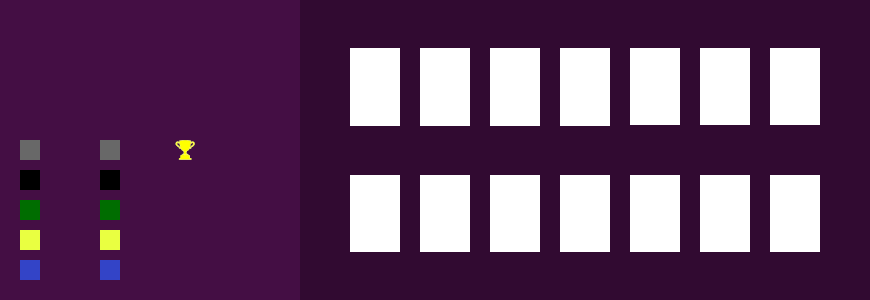
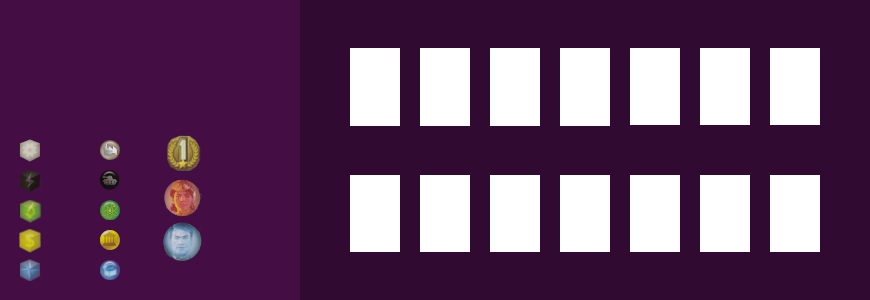
**feature : Graphics changes**
_Commit Description:_

Graphics changes

[CR #054]

diff --git a/src/client/main.cpp b/src/client/main.cpp
@@ -13,6 +13,7 @@ void testSFML() {
 #include <state.h>
 #include <render.h>
 #include "../shared/state.h"
+#include "render.h"
 
 using namespace std;
 using namespace state;
@@ -22,35 +23,12 @@ int main(int argc,char* argv[])
 {
 
 	//Print Temporary Manual Commands
-
 	cout<<"**Temporary Manual Commands**"<<endl;
 	cout<<"*Change Window Commands*"<<endl;
 	cout<<"A - Main Window"<<endl;
 	cout<<"Z - Drafting Window"<<endl;
 	cout<<"E - Player Full Window"<<endl;
-	cout<<"*Main Window Commands*"<<endl;
-	cout<<"K/M - Change position of Token"<<endl;
-	cout<<"O/L - Change Turn"<<endl;
-	cout<<"*Player Info Commands*"<<endl;
-	cout<<"Q - Display Player 1"<<endl;
-	cout<<"S - Display Player 2"<<endl;
 
-	//Creation of testing instances of Player class
-	state::Player* player1 = new state::Player();
-	state::Player* player2 = new state::Player();
-
-	//Creation of the vector players
-	vector<state::Player*> players;
-	players.push_back(player1);
-	players.push_back(player2);
-
-	//Creation of the instance of the Game class
-	state::Game* game = new state::Game(players);
-
-	int i,j,k;
-
-	//Creation of the instance of the Scene class
-	Scene scene = Scene(game);
 
 	//Creation of the window
 	int win_length = 1820;
@@ -61,6 +39,30 @@ int main(int argc,char* argv[])
 	float win_length_scale = (win_length*1.0f)/(1920.0f);
 	float win_heigth_scale = (win_heigth*1.0f)/(1080.0f);
 	sf::Transform tr_scale = sf::Transform().scale(win_length_scale, win_heigth_scale);
+
+
+	sf::Texture* t = new sf::Texture();
+	sf::Texture* t2 = new sf::Texture();
+	//Creation of testing instances of Player class
+	t->loadFromFile("./resources/img/pfp_1.png");
+	state::Player* player1 = new state::Player("MOI",0,t);
+	t2->loadFromFile("./resources/img/pfp_2.png");
+	state::Player* player2 = new state::Player("TOI",1,t2);
+
+	//Creation of the vector players
+	vector<state::Player*> players;
+	players.push_back(player1);
+	players.push_back(player2);
+
+	//Creation of the instance of the Game class
+	state::Game game = state::Game(players);
+
+	game.initGame();
+	//endDraft - endPlanification - 
+	int i,j,k;
+
+	//Creation of the instance of the Scene class
+	Scene scene = Scene(&game,tr_scale);
 
 	//Creation of the Font for the Texts
 	sf::Font font;
@@ -96,7 +98,8 @@ int main(int argc,char* argv[])
 					}
 					if (event.key.code == 4){		//Key E
 						scene.changeWindow(PLAYER_INFO); //Change the window to PLAYER_INFO
-					}					
+					}
+						
 				}
 			}
 
@@ -115,13 +118,13 @@ int main(int argc,char* argv[])
 				window.draw(*(gRenderer->getPhaseIndicator()),gRenderer->getPhaseIndicatorTransform());
 
 				
-				for (i=0; i < (scene.getPlayerRenderer().size()-1)/2; i++){
-					pRenderer =	scene.getPlayerRenderer()[i];
+				for (i=0; i < 2; i++){
+					pRenderer =	scene.getPlayerRenderer(i);
 					for (j = 0; j < pRenderer->getNumberSprite() ;j++){
-						window.draw(*(pRenderer->getSprite(i)),pRenderer->getSpriteTransform(i));
+						window.draw(*(pRenderer->getSprite(j)),pRenderer->getSpriteTransform(j));
 					}
 					for (j = 0; j < pRenderer->getNumberText() ;j++){
-						window.draw(*(pRenderer->getText(i)),pRenderer->getTextTransform(i));
+						window.draw(*(pRenderer->getText(j)),pRenderer->getTextTransform(j));
 					}
 					for (j = 0; j < pRenderer->getNumberCardRenderer() ;j++){
 						cRenderer = pRenderer->getCardRenderer(j);
@@ -133,8 +136,8 @@ int main(int argc,char* argv[])
 				}
 				break;
 			case DRAFTING_WINDOW:
-				for (i=(scene.getPlayerRenderer().size()+1)/2; i < scene.getPlayerRenderer().size()-1; i++){
-					pRenderer =	scene.getPlayerRenderer()[i];
+				for (i=2; i < 4; i++){
+					pRenderer =	scene.getPlayerRenderer(i);
 					for (j = 0; j < pRenderer->getNumberSprite() ;j++){
 						window.draw(*(pRenderer->getSprite(j)),pRenderer->getSpriteTransform(j));
 					}
@@ -152,7 +155,7 @@ int main(int argc,char* argv[])
 				//TODO Drafting HAND
 				break;
 			case PLAYER_INFO:
-				pRenderer =	scene.getPlayerRenderer()[scene.getPlayerRenderer().size()-1];
+				pRenderer =	scene.getPlayerRenderer(4);
 				for (j = 0; j < pRenderer->getNumberSprite() ;j++){
 					window.draw(*(pRenderer->getSprite(j)),pRenderer->getSpriteTransform(j));
 				}

diff --git a/src/client/render/Scene.cpp b/src/client/render/Scene.cpp
@@ -7,6 +7,8 @@ namespace render {
 
 	/// @brief Full constructor of the Scene class.
     Scene::Scene(state::Game* game,sf::Transform transform){
+		this->game = game;
+
        	//Creation and initialisation of the background texture
     	this->background_texture =sf::Texture();
     	(this->background_texture).loadFromFile("./resources/img/background.png");
@@ -18,13 +20,22 @@ namespace render {
     	//Set Starting Window
     	this->current_window = MAIN_WINDOW;
 
-		for (state::Player* player: game->getPlayers()){
-    		this->player_renderer.push_back(new PlayerRenderer(player,transform,MAIN_WINDOW));
+		PlayerRenderer* pRenderer;
+		int i;
+
+		std::vector<state::Player*> players = game->getPlayers();
+		//for (int i = 0; i<players.size();i++){
+			pRenderer = new PlayerRenderer(players[0],generatePlayerTransform(transform,MAIN_WINDOW,0),MAIN_WINDOW);
+    		this->player_renderer.push_back(pRenderer);
+			pRenderer = new PlayerRenderer(players[1],generatePlayerTransform(transform,MAIN_WINDOW,1),MAIN_WINDOW);
+    		this->player_renderer.push_back(pRenderer);
+		//}
+		for (int i = 0; i<players.size();i++){
+    		pRenderer = new PlayerRenderer(players[i],generatePlayerTransform(transform,DRAFTING_WINDOW,i),DRAFTING_WINDOW);
+			this->player_renderer.push_back(pRenderer);
 		}
-		for (state::Player* player: game->getPlayers()){
-    		this->player_renderer.push_back(new PlayerRenderer(player,transform,DRAFTING_WINDOW));
-		}
-		this->player_renderer.push_back(new PlayerRenderer(game->getPlayers()[0],transform,PLAYER_INFO));
+		pRenderer = new PlayerRenderer(game->getPlayers()[0],transform,PLAYER_INFO);
+		this->player_renderer.push_back(pRenderer);
 
 		this->game_renderer = new GameRenderer(game,transform);
 	}
@@ -43,8 +54,12 @@ namespace render {
     /// @brief Getter of the player renderer.
     /// @param index corresponding of the wanted player renderer in the vector player_renderer
 	/// @return The player renderer corresponding of the index.
-	std::vector<PlayerRenderer*> Scene::getPlayerRenderer (){
-		return (this->player_renderer);
+	PlayerRenderer* Scene::getPlayerRenderer (int i){
+		return (this->player_renderer)[i];
+	}
+
+	GameRenderer* Scene::getGameRenderer(){
+		return this->game_renderer;
 	}
 
 	/// @brief Setter for current_window
@@ -57,5 +72,26 @@ namespace render {
 	/// @return value of current_window
 	Window Scene::getWindow(){
 		return (this->current_window);
+	}
+
+	sf::Transform Scene::generatePlayerTransform(sf::Transform transform, Window window, int indice){
+		if (window == MAIN_WINDOW){
+			if (indice == 0){
+				return sf::Transform(transform).translate(525.f,780.f);
+			}
+			else {
+				return sf::Transform(transform).translate(525.f,0.f);
+				//TODO See for indice>2
+			}
+		}
+		if (window == DRAFTING_WINDOW){
+			if (indice == 0){
+				return sf::Transform(transform).translate(0.f,720.f);
+			}
+			else {
+				return sf::Transform(transform).translate(0.f,(indice-1)*180.f);
+			}
+		}
+	return sf::Transform(transform);
 	}
 };

diff --git a/src/client/render/PlayerRenderer.cpp b/src/client/render/PlayerRenderer.cpp
@@ -17,11 +17,18 @@ namespace render {
 		std::vector<state::DevelopmentCard*> built = player->getBuiltCards();
 		std::vector<state::DevelopmentCard*> drafted = player->getDraftCards();
 
+		this->sprites = {};
+		this->sprite_transforms = {};
+		this->devCardRenderers = {};
+		this->texts = {};
+		this->text_transforms = {};
+
 		int i;
 		sf::Texture* texture;
 		sf::Sprite* sprite;
 		sf::Text* text;
 		DevelopmentCardRenderer* cRenderer;
+		this->sprites = {};
 
 		switch (window){
 		case MAIN_WINDOW:
@@ -35,7 +42,7 @@ namespace render {
 			this->sprite_transforms.push_back(transform);				//Transform
 
 			//Enter Player Profile Picture (position 1 in sprites)
-			texture = new sf::Texture(player->getProfilePicture());
+			texture = player->getProfilePicture();
 			this->textures.push_back(texture);					//Texture
 			sprite= new sf::Sprite();
 			sprite->setTexture(*(this->textures[1]));
@@ -76,7 +83,7 @@ namespace render {
 				text->setCharacterSize(10);
 				text->setFillColor(sf::Color::White);
 				this->texts.push_back(text);				//Text
-				this->text_transforms.push_back(sf::Transform(sprite_transforms[0]).translate(200.0f,140.0f+30.0f*(i)));		//Transform
+				this->text_transforms.push_back(sf::Transform(sprite_transforms[0]).translate(200.0f,140.0f+60.0f*(i)));		//Transform
 			}
 			break;
 		case DRAFTING_WINDOW:
@@ -90,7 +97,7 @@ namespace render {
 			this->sprite_transforms.push_back(transform);				//Transform
 
 			//Enter Player Profile Picture (position 1 in sprites)
-			texture = new sf::Texture(player->getProfilePicture());
+			texture = player->getProfilePicture();
 			this->textures.push_back(texture);					//Texture
 			sprite= new sf::Sprite();
 			sprite->setTexture(*(this->textures[1]));
@@ -124,7 +131,7 @@ namespace render {
 			this->sprite_transforms.push_back(transform);				//Transform
 
 			//Enter Player Profile Picture (position 1 in sprites)
-			texture = new sf::Texture(player->getProfilePicture());
+			texture = player->getProfilePicture();
 			this->textures.push_back(texture);					//Texture
 			sprite= new sf::Sprite();
 			sprite->setTexture(*(this->textures[1]));

diff --git a/src/client/render/GameRenderer.cpp b/src/client/render/GameRenderer.cpp
@@ -83,7 +83,7 @@ namespace render
                 break;
             case state::PRODUCTION:
                 this->phaseIndicator->setString("PRODUCTION");
-                /*switch (this->game->getResourceProducing()){
+                switch (this->game->getResourceProducing()){
                     case state::MATERIAL:
                         this->boardMaterialSprite->setColor(sf::Color::Gray);
                         break;
@@ -99,7 +99,7 @@ namespace render
                     case state::EXPLORATION:
                         this->boardExplorationSprite->setColor(sf::Color::Gray);
                         break;
-                }*/
+                }
                 break;
         }
     }
